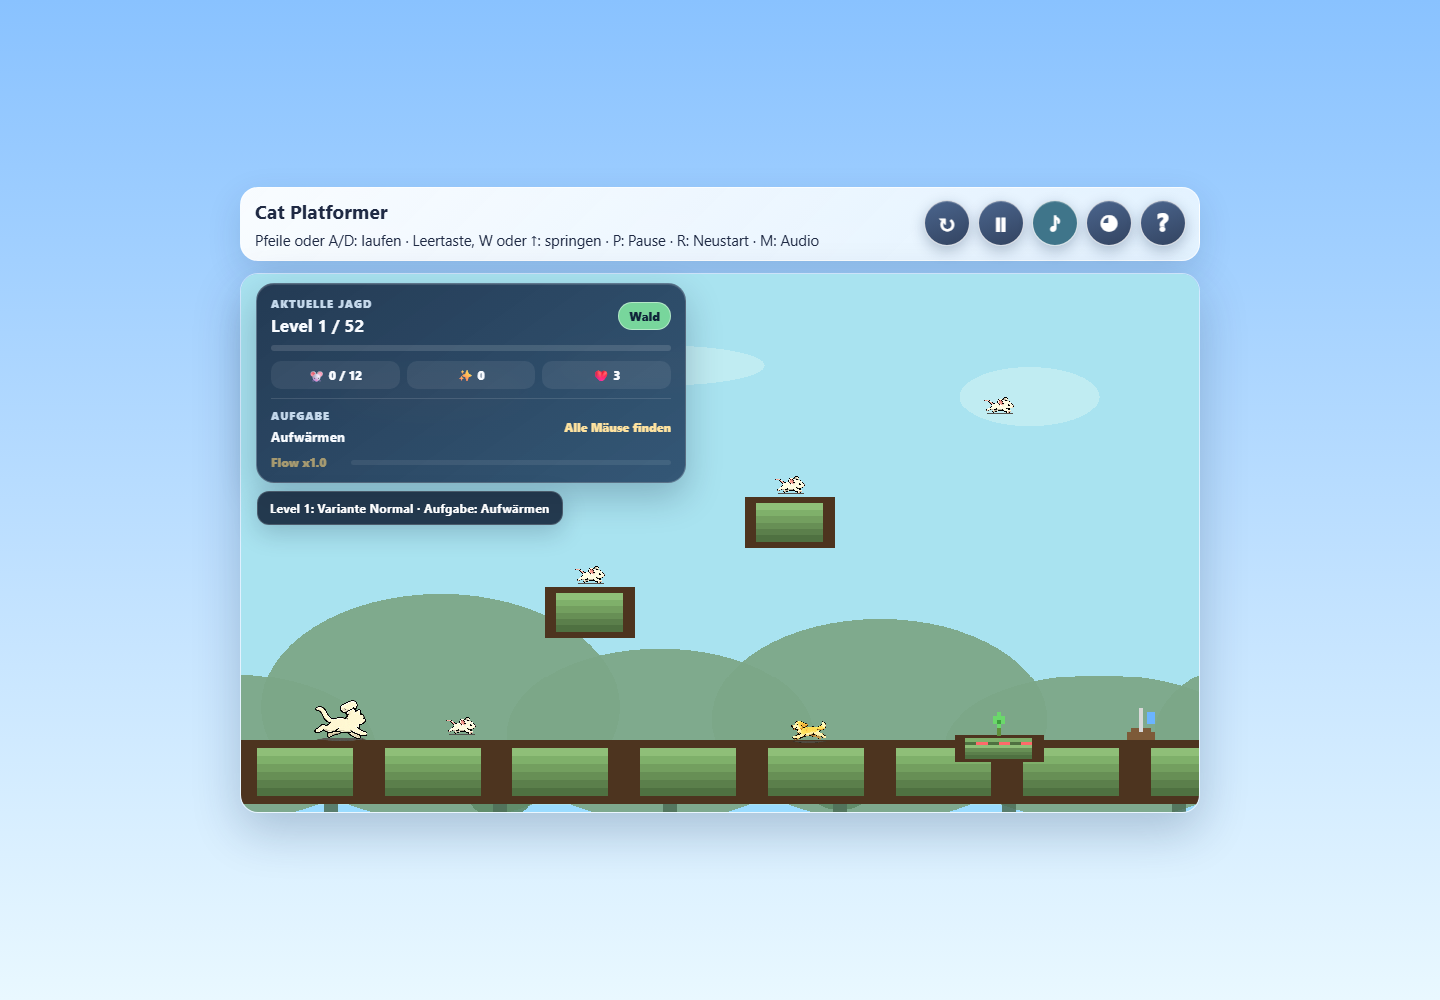
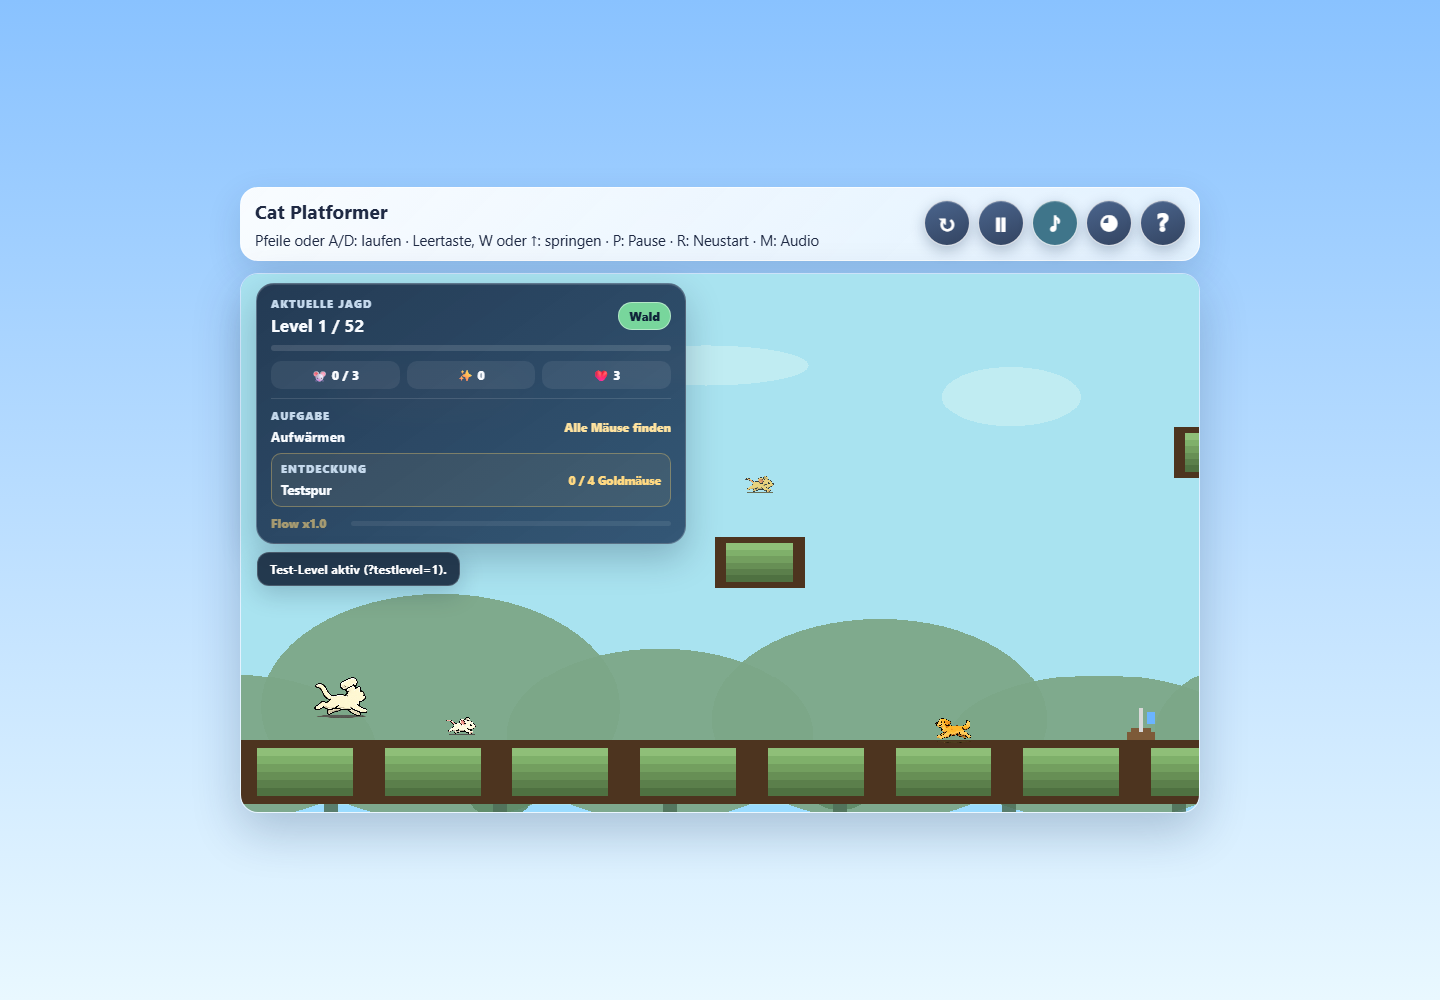
docs: record discovery route release evidence

diff --git a/AUDIT.md b/AUDIT.md
@@ -5,7 +5,7 @@ Geprüfter Branch: `main`
 
 ## Kurzurteil
 
-`cat-platformer` ist ein spielbarer, inhaltlich bereits breiter Phaser-Prototyp mit 52 Levels, Bossen, Modifikatoren, Challenges, adaptiver Schwierigkeit, Desktop-/Touch-Steuerung und mehrschichtiger Musik. Langzeitprogression, Einstieg, Qualitätsgate und eine schlankere Auslieferung sind abgesichert. Ein zweiter Produktblock legt nun Mission, Aufgabe und Combo offen und verstärkt Sammeln, Stomps, Treffer sowie Levelabschluss mit unterscheidbarem Feedback.
+`cat-platformer` ist ein spielbarer, inhaltlich bereits breiter Phaser-Prototyp mit 52 Levels, Bossen, Modifikatoren, Challenges, adaptiver Schwierigkeit, Desktop-/Touch-Steuerung und mehrschichtiger Musik. Langzeitprogression, Einstieg, Qualitätsgate und eine schlankere Auslieferung sind abgesichert. Mission, Aufgabe und Combo sind sichtbar; ein bewusster Jagdbericht fasst jeden Levelabschluss zusammen und optionale Goldmaus-Routen erhöhen den Wiederspielwert.
 
 Im geprüften Startzustand traten keine blockierenden Laufzeitfehler auf. Der wichtigste bestätigte Logikfehler lag im Levelgenerator: Der Zweig für zufällige Spring-Plattformen war unerreichbar. Dieser Fehler ist im ersten Maßnahmenblock behoben und automatisiert abgesichert worden.
 
@@ -15,7 +15,7 @@ Im geprüften Startzustand traten keine blockierenden Laufzeitfehler auf. Der wi
 |---|---|---|
 | CAT-01 | erledigt | Generator ausgelagert, Spring-Zweig erreichbar, Level 3–52 deterministisch getestet |
 | CAT-02 | erledigt | versionierter Save-State, explizites Fortsetzen/Neustarten und sicherer Fallback bei beschädigtem Storage |
-| CAT-03 | erledigt | ESLint ohne Warnungen, 12 Node-Tests, dauerhafter Chrome-Smoke-Test und CI |
+| CAT-03 | erledigt | ESLint ohne Warnungen, 14 Node-Tests, dauerhafter Chrome-Smoke-Test und CI |
 | CAT-05 | fortgeschritten | Levelgenerator, Progression/Aufgaben, Persistenz und HUD-Texte als reine testbare Module ausgelagert; Szenendatei bleibt groß |
 | CAT-06 bis CAT-09 | erledigt | First-run-Hilfe, semantische Controls, kompaktes Desktop-Layout und lesbare deutsche HUD-Texte umgesetzt |
 | CAT-10, CAT-11 | erledigt | aktiver Lauf benötigt Neustartbestätigung; Audioauswahl wird fehlertolerant gespeichert |
@@ -29,6 +29,8 @@ Im geprüften Startzustand traten keine blockierenden Laufzeitfehler auf. Der wi
 | CAT-13 | erledigt | responsives Mission-HUD zeigt Levelweg, Thema, Mäuse, Punkte, Leben und Aufgabenfortschritt auf einen Blick |
 | CAT-14 | erledigt | dauerhaft sichtbares Flow-Zeitfenster macht Multiplikator und drohenden Ablauf verständlich |
 | CAT-15 | erledigt | Aktionsbursts, Punktetexte, SFX, reduzierte Kamerareaktionen und Abschlussfeuerwerk geben jeder Kernaktion eine eigene Antwort |
+| CAT-16 | erledigt | zugänglicher Jagdbericht zeigt Aufgabenstatus, Mäuse, Zeit, Treffer, Flow, alle Boni und das nächste Level; die Einführungsaufgabe zählt neutral |
+| CAT-17 | erledigt | drei deterministische Entdeckungsrouten verteilen je vier optionale Goldmäuse und einen separaten Komplettbonus auf Level 3 bis 52 |
 
 ## Aktueller Aufbau
 
@@ -51,13 +53,13 @@ Im geprüften Startzustand traten keine blockierenden Laufzeitfehler auf. Der wi
 | Dependency-Audit | `npm audit` erfolgreich; 0 bekannte Schwachstellen |
 | Lint | 0 Fehler und 0 Warnungen; Warnbudget ist null |
 | JavaScript-Syntax | `node --check` für Generator, Persistenz, HUD-Texte und Spiel erfolgreich |
-| Modul-/Vertragstests | 12/12 erfolgreich; Generator, Progression, Aufgaben, Persistenz, Neustart, HUD-Texte und semantische UI |
+| Modul-/Vertragstests | 14/14 erfolgreich; Generator, Entdeckungsrouten, Abschlussbericht, Progression, Aufgaben, Persistenz, Neustart, HUD-Texte und semantische UI |
 | Asset-Manifest | valides JSON |
 | Desktop-Laufzeit, 1440 × 1000 | nach Änderungen erneut geladen und gerendert |
 | Schmale Hochkantansicht, 500 × 844 | nach Änderungen erneut geladen und gerendert, Actions und Hilfe bleiben im Viewport |
 | Laufzeitprotokoll | keine bestätigte Exception im geprüften Startablauf |
 | Browser-Smoke-Test | echter Phaser-/Canvas-Start und geöffnetes Onboarding in Headless Chrome |
-| Release-Build | 17 Runtime-Dateien, 15.521.207 Bytes bei 16-MiB-Budget |
+| Release-Build | 17 Runtime-Dateien, 15.536.479 Bytes bei 16-MiB-Budget |
 | CI | GitHub-Workflow für `npm ci`, vollständiges Gate und Build auf Zielcommit erfolgreich |
 
 ## Befunde
@@ -161,14 +163,14 @@ Umsetzung: README dokumentiert Start, Steuerung, Query-Parameter, Architektur un
 ## Perspektiven
 
 - Entwickler: Reine Module, aktive Gates und ein getesteter DOM-Vertrag senken das Risiko; der verbleibende Szenenmonolith bleibt der größte technische Hebel.
-- UX: Kern, Fortsetzen, Aufgabe und Combo sind verständlich; 52 Levels bleiben ein langes Commitment und spätere Progressionsbeats brauchen echte Durchlauftests.
+- UX: Kern, Fortsetzen, Aufgabe, Combo, Jagdbericht und optionale Entdeckungen sind verständlich; 52 Levels bleiben ein langes Commitment und spätere Progressionsbeats brauchen echte Durchlauftests.
 - UI: Mission, Laufwerte und Einstellungen besitzen eine klare Hierarchie; Pixelwelt und gläserne Oberfläche bleiben auf Desktop und Hochkant voneinander unterscheidbar.
-- Anwender: Ziel, nächster Fortschritt und direkte Aktionsantwort sind sichtbar; Mobileinstieg ist abgesichert, Langzeitmotivation bleibt der nächste Produkthebel.
+- Anwender: Ziel, nächster Fortschritt, Goldroute und direkte Aktionsantwort sind sichtbar; der Jagdbericht gibt vor jedem nächsten Level eine bewusste Atempause.
 - Betrieb: Allowlist-Build, Größenbudget, CI, Browser-Smoke und Release-Dokumentation schaffen einen reproduzierbaren Pfad; Rechte- und Langstreckenprüfung bleiben manuell.
 
 ## Verbleibende Abarbeitung
 
-1. Levelabschlusskarte mit Aufgabenbonus, Serienfortschritt und nächstem Ziel umsetzen.
+1. Levelauswahl/Abzeichen für erreichte Level, Bestzeiten, Aufgaben und Entdeckungen konzipieren.
 2. `game.js` entlang getesteter Grenzen weiter modularisieren (`CAT-05`), bevorzugt Entitäten, Effekte und Audio.
 3. Beide Musikdateien für Webauslieferung neu encodieren und das 16-MiB-Budget anschließend deutlich senken.
 4. Vollständigen 52-Level-Lauf, physisches Touchgerät, Screenreader sowie Firefox/Safari manuell prüfen.
@@ -177,7 +179,7 @@ Umsetzung: README dokumentiert Start, Steuerung, Query-Parameter, Architektur un
 
 ## Browser-Nachweise
 
-Aktuelle Desktopansicht mit Mission, Aufgabe und Flow:
+Aktuelle Desktopansicht mit Mission, Aufgabe, Flow und Entdeckungsroute:
 
 ![Cat Platformer Produktansicht Desktop](docs/audit/product-desktop.png)
 

diff --git a/docs/PRODUCT-ROADMAP.md b/docs/PRODUCT-ROADMAP.md
@@ -21,16 +21,16 @@ Stand: 2026-08-05
 | P0 | Mission-HUD | Levelweg, Mäuse, Leben, Punkte und Aufgabenfortschritt bilden eine klare visuelle Hierarchie | umgesetzt |
 | P0 | Combo-Kommunikation | Zeitfenster und Multiplikator werden dauerhaft sichtbar statt nur kurz eingeblendet | umgesetzt |
 | P0 | Game Feel | Sammelbursts, Punktetexte, kontrollierte Kamerareaktionen und Abschlussfeuerwerk verstärken Aktionen | umgesetzt |
-| P1 | Levelabschlusskarte | Bonus, Aufgabe und Serienfortschritt werden vor dem nächsten Level verständlich zusammengefasst | nächste Iteration |
-| P1 | Entdeckungen | optionale Nebenrouten, sichtbare Geheimnisse und riskantere Mäuseketten erhöhen Wiederspielwert | Backlog |
+| P1 | Levelabschlusskarte | Bonus, Aufgabe, Leistung, Entdeckungsbonus und nächstes Level werden vor dem bewussten Weitergehen zusammengefasst | umgesetzt |
+| P1 | Entdeckungen | deterministische Goldmaus-Nebenrouten ab Level 3 erhöhen Risiko, Belohnung und Wiederspielwert, ohne den Abschluss zu blockieren | umgesetzt |
 | P1 | Levelauswahl/Abzeichen | bereits erreichte Level, Bestzeit und Aufgabenstatus werden außerhalb des Runs vergleichbar | Backlog |
 | P2 | Zusätzliche Animationen | Landung, Bremsen, Treffer und Sieg erhalten eigene Sprite-/Effektzustände | benötigt Assetarbeit |
 | P2 | Tägliche Route | reproduzierbarer Seed mit Tageswertung schafft einen kurzen Wiederkehrgrund | Backlog |
 
 ## Erfolgskriterien dieser Iteration
 
-- Spielziel und aktuelle Aufgabe sind ohne Hilfe-Dialog ablesbar.
-- Das Combo-Zeitfenster ist verständlich und reagiert auf Sammeln sowie Ablauf.
-- Sammeln, Stompen, Schaden und Levelabschluss fühlen sich visuell unterschiedlich an.
-- Die neue Oberfläche bleibt auf schmalen Viewports bedienbar und zoomfähig.
+- Levelabschluss, Aufgabenbonus, Serienbonus und nächstes Ziel sind vor dem Weitergehen lesbar.
+- Goldmaus-Routen sind sichtbar, optional und für Level 3 bis 52 deterministisch abgesichert.
+- Die Einführungsaufgabe wird im Abschlussbericht neutral statt fälschlich als Fehlschlag gewertet.
+- Oberfläche, Abschlussdialog und Entdeckungs-HUD bleiben auf schmalen Viewports bedienbar und zoomfähig.
 - Automatische Tests, Browser-Smoke und Release-Budget bleiben grün.

diff --git a/README.md b/README.md
@@ -25,7 +25,7 @@ Neustart, Pause, Audio, Touch-Profil und Hilfe sind zusätzlich als benannte But
 ## Entwicklung und Qualität
 
 ```powershell
-npm run check   # ESLint, 12 Node-Tests und Headless-Chrome-Smoke-Test
+npm run check   # ESLint, 14 Node-Tests und Headless-Chrome-Smoke-Test
 npm run build   # erzeugt das manifestgesteuerte Release in dist/
 ```
 
